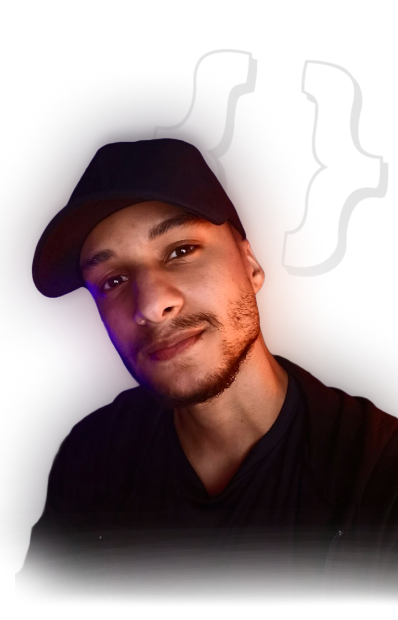
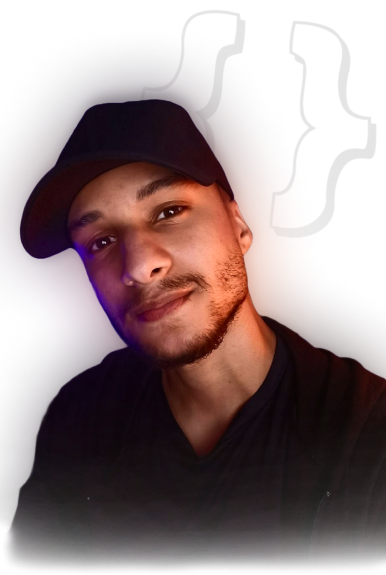
add stars background and new photo

diff --git a/src/portfolio.tsx b/src/portfolio.tsx
@@ -1,13 +1,13 @@
 import { Github, Instagram, Linkedin, Menu } from 'lucide-react'
 
-import homePhoto from './assets/home-photo.png'
+import homePhoto from './assets/math-photo.png'
 import logo from './assets/logo.png'
 
 export function Portfolio() {
   return (
-    <div className="w-screen h-screen flex justify-center overflow-x-hidden">
+    <div className="w-screen h-dvh flex justify-center overflow-x-hidden">
 
-      <header className='w-screen h-12 fixed flex justify-between items-center px-10 bg-bg-header/30 backdrop-blur-lg '>
+      <header className='w-screen h-12 fixed flex justify-between items-center px-10 bg-bg-header/20 backdrop-blur-sm z-50'>
         {/* logo */}
         <img 
           className='h-8'
@@ -30,7 +30,7 @@ export function Portfolio() {
 
           <div className='relative w-full h-screen flex justify-center'>
             {/* presentation */}
-            <div className='absolute mt-36 h-fit flex flex-col justify-center mx-auto gap-y-2 z-0  '>
+            <div className='absolute mt-32 h-fit flex flex-col justify-center mx-auto gap-y-2 z-0  '>
               <p className='text-zinc-400 text-base'>
                 Olá! Eu me chamo
               </p>
@@ -52,13 +52,13 @@ export function Portfolio() {
 
             {/* image */}
             <div className="relative flex justify-between items-center mt-auto w-screen h-fit ">
-              <div className=' flex flex-col gap-y-6 text-zinc-400 bg-slate-700'>
-                <Github size={25} />
-                <Instagram size={25} />
-                <Linkedin size={25} />
+              <div className=' flex flex-col gap-y-8 text-zinc-400 '>
+                <Github size={30} />
+                <Instagram size={30} />
+                <Linkedin size={30} />
               </div>
               <img
-                className=' flex flex-1 w-full justify-end object-contain object-right-bottom -mr-3 0'
+                className='flex flex-1 w-full justify-end object-contain object-right-bottom -mr-3 '
                 src={homePhoto}
                 alt="Matheus Correa"
               />

diff --git a/src/bg-animation.css b/src/bg-animation.css
@@ -258,7 +258,6 @@
   -ms-animation: animStar 180s linear infinite;
   animation: animStar 180s linear infinite;
 }
-
 #stars:after {
   content: " ";
   position: absolute;
@@ -581,7 +580,6 @@
   -ms-animation: animStar 250s linear infinite;
   animation: animStar 250s linear infinite;
 }
-
 #stars2:after {
   content: " ";
   position: absolute;
@@ -657,7 +655,6 @@
     1439px 1423px #8C87DD, 26px 1881px #8C87DD, 802px 1564px #8C87DD,
     273px 708px #8C87DD, 40px 31px #8C87DD, 859px 108px #8C87DD;
 }
-
 #stars3 {
   border-radius: 2px;
   width: 3px;
@@ -703,7 +700,6 @@
   -ms-animation: animStar 300s linear infinite;
   animation: animStar 300s linear infinite;
 }
-
 #stars3:after {
   content: " ";
   position: absolute;
@@ -959,7 +955,6 @@
   -ms-animation: animStar 600s linear infinite;
   animation: animStar 600s linear infinite;
 }
-
 #stars4:after {
   content: " ";
   position: absolute;
